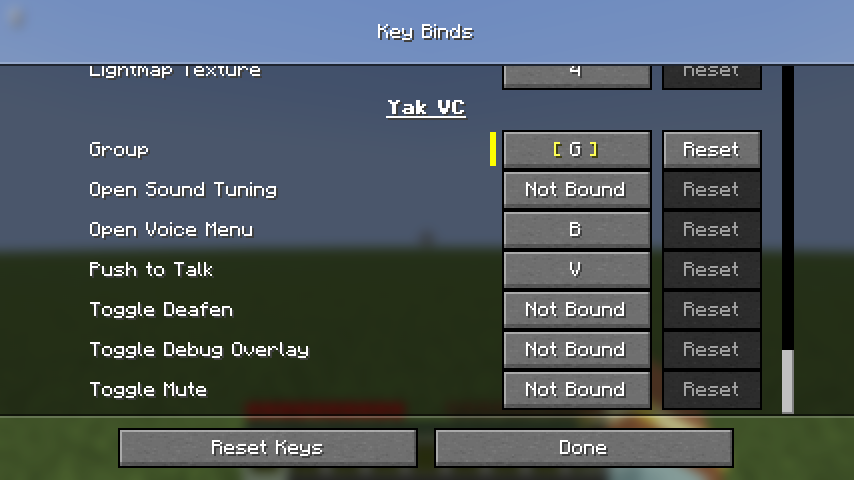
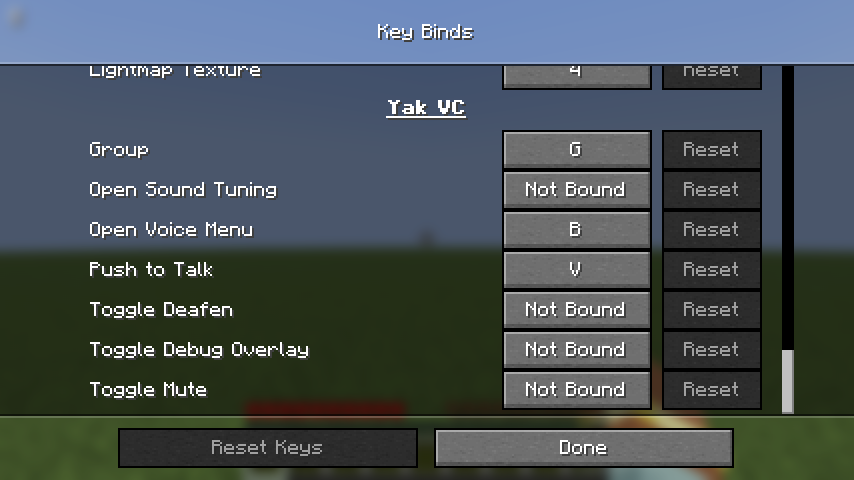
Mod: Group defaults to G

diff --git a/mod/src/main/java/io/github/desocketed/yakvc/input/VoiceKeys.java b/mod/src/main/java/io/github/desocketed/yakvc/input/VoiceKeys.java
@@ -44,7 +44,7 @@ public final class VoiceKeys {
 				KeyMappingHelper.registerKeyMapping(
 						new KeyMapping("key.yakvc.push_to_talk", InputConstants.KEY_V, category)),
 				KeyMappingHelper.registerKeyMapping(
-						new KeyMapping("key.yakvc.group", InputConstants.UNKNOWN.getValue(), category)),
+						new KeyMapping("key.yakvc.group", InputConstants.KEY_G, category)),
 				KeyMappingHelper.registerKeyMapping(
 						new KeyMapping("key.yakvc.mute", InputConstants.UNKNOWN.getValue(), category)),
 				KeyMappingHelper.registerKeyMapping(
@@ -110,7 +110,7 @@ public final class VoiceKeys {
 		this.deafened = deafened;
 	}
 
-	/** The Group key's name for chat and status lines, or a hint to bind it while it is unbound (the default). */
+	/** The Group key's name for chat and status lines, or a hint to bind it if the player unbound it. */
 	public Component groupKeyName() {
 		return group.isUnbound() ? Component.translatable("yakvc.group.key_unbound") : group.getTranslatedKeyMessage();
 	}

diff --git a/mod/src/gametest/java/io/github/desocketed/yakvc/gametest/YakVcClientGameTest.java b/mod/src/gametest/java/io/github/desocketed/yakvc/gametest/YakVcClientGameTest.java
@@ -575,11 +575,6 @@ public class YakVcClientGameTest implements FabricClientGameTest {
 			mc.level.getEntity(REMOTE_ENTITY_ID).tickCount = 0;
 		});
 		context.takeScreenshot(TestScreenshotOptions.of("group-invite").disableCounterPrefix());
-		// Group is unbound by default; bind it as a player would.
-		context.runOnClient(mc -> {
-			KeyMapping.get("key.yakvc.group").setKey(InputConstants.Type.KEYBOARD.getOrCreate(InputConstants.KEY_G));
-			KeyMapping.resetMapping();
-		});
 		context.getInput().pressKey(KeyMapping.get("key.yakvc.group"));
 		context.waitFor(mc -> inGroupWith(feeder, REMOTE));
 

diff --git a/docs/DESIGN.md b/docs/DESIGN.md
@@ -318,7 +318,7 @@ Voice is 48 kHz mono Opus in 20 ms frames, sent as unreliable QUIC datagrams on 
 
 **Group voice chat (#28)**
 
-Players in a group hear each other at any distance, and only each other: a member is out of proximity voice until it leaves. A group forms when one player invites another and that player accepts, each by looking at the other and pressing the Group key (unbound by default). A player can also start a public group alone from the groups screen (Create Public Group, `yakvc_create_group`), which others then join from the list. Groups have no name, no password and no leader: every member has the same rights, and the voice menu shows a group as the faces of its members. They need nothing on the server: they live in the peers' messages to each other. (Reworked from named, password-protected groups by the maintainer, 2026-10-09.)
+Players in a group hear each other at any distance, and only each other: a member is out of proximity voice until it leaves. A group forms when one player invites another and that player accepts, each by looking at the other and pressing the Group key (G). A player can also start a public group alone from the groups screen (Create Public Group, `yakvc_create_group`), which others then join from the list. Groups have no name, no password and no leader: every member has the same rights, and the voice menu shows a group as the faces of its members. They need nothing on the server: they live in the peers' messages to each other. (Reworked from named, password-protected groups by the maintainer, 2026-10-09.)
 
 - **Key.** A group is a random 32-byte key `K`, made by the client that starts it. Its id is `SHA-256("yakvc-group-id-v2" ‖ K)`. A member's proof is `SHA-256("yakvc-group-member-v2" ‖ K ‖ member UUID)`. Members hold the same `K`, so none of them has any power the others lack.
 - **Invite and accept.** Pressing Group while looking at a player (a narrow cone around the crosshair over the players in view) accepts that player's pending invite if there is one, and otherwise invites them (`yakvc_invite`): `Invite { key, state }` on the control stream, with our group's `K` and state. A client not in a group sends a new key that it doesn't join yet, so it stays in proximity voice; it joins once the invitee's announcement proves that key, and keeps offering the same key for 2 minutes. The invitee sees "Steve invited you to a group" in chat; accepting (`yakvc_accept_invite`) leaves its own group and takes the invite's `K` and state. Invites expire after 2 minutes. Both players must be in view of each other, which is the point: a group is made face to face.
@@ -446,8 +446,8 @@ Names below use Mojang's official mappings, which Fabric uses from 26.1 on (Mine
 | `VoiceSession` | Per-connection lifecycle on `ClientPlayConnectionEvents` JOIN/DISCONNECT; Voice stays off until the server-data packet arrives (5 s timeout), so the MOTD opt-out is checked first; with no mixin, the packet is detected by `ServerData.motd` being replaced with a new object. It also stays off while `Minecraft.computeChatAbilities().restrictions()` contains `ChatRestriction.DISABLED_BY_PROFILE` or `DISABLED_BY_LAUNCHER` (`respect_chat_restrictions`; these replaced the older `getChatStatus()` API). The identity is worked out by `GameStateFeeder` every tick: the connection's game profile during a session (it differs from the launcher account on offline-mode servers) and the launcher account otherwise, sent only when it changes, so leaving an offline-mode server restores the account (#67) |
 | `GameStateFeeder` | On `END_CLIENT_TICK`: the identity (see `VoiceSession`); listener pose from the camera; tracked players from `level.players()`, minus spectators; tab-list diff from `getOnlinePlayers()`; local spectator state as an input flag; players blocked in Social Interactions (`PlayerSocialManager.isBlocked(UUID)`, checked once a second) are muted and also left out of the world snapshot, so no voice flows either way (`mute_blocked_players`); per-player volume and mute changes; the Voice volume as `getFinalSoundSourceVolume(VOICE)`, i.e. Voice × Master; the game's sound device; another mod's voice sink from Fabric Loader's object share (`yakvc:voice_sink`), when its address changes; push to native; then drain events and answer joins. Each step runs on its own, so one failing call can't skip the rest; a value the engine rejects is not resent until it changes. An engine panic disables voice and destroys the engine |
 | `SessionJoiner` | Handles `JoinRequest` events on a virtual thread via authlib's `SessionService.joinServer` (see authentication step 5). It tracks the game's login window itself, from `ClientLoginConnectionEvents.INIT` until `ClientConfigurationConnectionEvents.INIT` or login `DISCONNECT` (a `VoiceSession` only exists after login), and refuses inside it; the engine's auth backoff retries from 10 s. A login that starts while a voice join is in flight waits for it, up to 5 s, except for a local server (singleplayer or LAN host, `Minecraft.isLocalServer()`), where the game never calls `joinServer` over its memory connection: `ClientLoginConnectionEvents.INIT` fires before the game sends its hello, so the game's own `joinServer` lands last. Any `AuthenticationException` (unreachable, invalid credentials, banned) means `ok = false`. The access token stays inside authlib and is never logged. The result goes back through `GameStateFeeder`, which calls `completeJoin` on the client thread |
-| `input` | Keybinds via `KeyMappingHelper`: push-to-talk (default `V`, unused by vanilla; 26.3 uses SDL scancodes, `InputConstants.KEY_V`); open voice menu defaults to `B` (unused by vanilla); Group, mute and deafen are unbound by default to avoid clashing with minimap and utility mods, and chat and the groups screen name the Group key or, while unbound, ask to bind it in Controls; the pause menu gets a microphone button next to "Back to Game" (`ScreenEvents.AFTER_INIT`, placed from that button's position) that opens the voice menu. Settings are reached from a "Voice Chat…" row added to vanilla's Music & Sounds options (Fabric `ScreenEvents.AFTER_INIT` appends it to the screen's `OptionsList`, no mixin), from the voice menu, or from Mod Menu's config button when Mod Menu is installed (an optional compile-only dependency; Mod Menu is on the dev and gametest runtime classpath only, and the gametest clicks through its real config button) |
-| `ui` | `VoiceMenuScreen`: voice status, one row per online player (face, connection state, talking icon, 0–200 % volume, mute), and mute mic, deafen, groups and settings buttons; the first time it opens, a setup card at the top offers who may invite you to a group and the activation mode, and dismissing it sets `setup_done` in settings.json (a modpack can ship that set); `GroupsScreen`: public groups and our own as boxes of member faces with the optional label, join, leave, public or private, and the label; `GroupChat` puts invites in chat and other members' changes in toasts; `VoiceKeys` adds Group (unbound by default: invite or accept the player looked at); verified players get a check-mark badge after their name (icon-font `U+E004`), also shown beside the talking indicator. Members of our own group get a group badge (icon-font `U+E006`, two people) after their name in the voice menu, after the speaker in the HUD's talking list and over their head, talking or not; nothing shows for anyone else, or in no group. `VoiceSettingsScreen` applies each change at once, like the game's own options (slider drags coalesced to one `yakvc_update_config` every 2 ticks, about 100 ms; a pending one applies when the screen closes), and saves settings.json after each change the engine accepts; a rejected change shows the toast and reopens the screen from the config in effect, and the setup card's choices apply the same way. It has an Account section with your own state (verified, unverified or not connected) and the "Only Verified Players" toggle (`verified_only`); activation (push to talk or voice), range, bitrate, the noise filter (`noise_suppression`), Mic Volume (`input_gain`, a 0–400 % slider though the engine takes up to 10), input and output devices from `yakvc_list_devices`, listed once per open on a worker thread (`GameStateFeeder.listDevices`) with the pickers disabled and showing "Loading…" until the list lands on the client thread (that is the one engine call made off the client thread: it touches no engine state, the FFI last error is per thread, and `GameStateFeeder.close` holds a lock against it so destroy stays the last call), Spatial Audio (`spatial_audio`: off, simple or full, mod-only; see the acoustics), and a privacy section with the IP note, Group Invites (`invites`), relay-only (applies after a restart, because the engine builds its endpoint once; until then its button reads "On/Off after restart"), `respect_chat_restrictions` and `mute_blocked_players`, then a Developer section (always shown for now, one method so it can be hidden) with the debug overlay toggle, Sound Tuning and Test Sound. `TalkingIndicator` draws a speaker above talking players' name tags through `LevelRenderEvents.COLLECT_SUBMITS` and vanilla's `submitNameTag` (no mixin). The HUD shows mic and deafen icons, and the connection icon only when not registered, with text only when something is wrong; the mic turns grey with "No microphone" when no `MicLevel` has arrived for a second (#63). Icons are a small bitmap font (`assets/yakvc/font/icons.json`). `DebugOverlay` (key "Toggle Debug Overlay", unbound by default, or the toggle in the settings' Developer section, not saved) draws an F3-style panel: rendezvous and ticket (time left in whole hours, then minutes in the last hour, #118), account, endpoint and our voice protocol version, devices, level, sending, effective bitrate, overruns and underruns, and per peer the path, its voice protocol version when it differs from ours (such a peer also shows "Different version" in the voice menu, with a tooltip and a one-time toast per server session saying who needs to update, naming the release when the update check found one), RTT, loss, late packets and jitter-buffer delay, from `yakvc_stats` polled 4 times a second while it is shown. `VoiceToasts` shows failures: unsupported platform, native load or ABI mismatch, engine start failure, engine panic, and rejected settings. `EngineErrorToasts` shows the engine's `Error` events (a device that can't open or stopped working, a failed sign-in) as toasts of their own, queued one after another rather than replacing each other (#116); each message shows at most once every 5 minutes (#63). Group notices have a toast slot of their own (5 s, a newer one replaces the older). The other toasts share one slot Group Invites offers everyone, friends and nobody; Friends Only (`friends_only`) limits voice to the players marked Friend in the voice menu rows, kept in players.json beside volume and mute and sent to the engine as `friends`. Voice Activation Threshold (`vad_threshold_db`), Reverb and Echo (`acoustics.reverb_level`, `acoustics.echo_level`, shown with Spatial Audio on Full) are sliders too, and the Account section has the Voice Server box (`server`, a code from `yakvc-server code`, applied on close, taking effect after a restart). The menu status and the account line follow the live state while open; players.json is rewritten only when a volume or mute changed. |
+| `input` | Keybinds via `KeyMappingHelper`: push-to-talk (default `V`, unused by vanilla; 26.3 uses SDL scancodes, `InputConstants.KEY_V`); open voice menu defaults to `B` and Group to `G` (both unused by vanilla); mute and deafen are unbound by default to avoid clashing with minimap and utility mods; chat and the groups screen name the Group key or, if a player unbound it, ask to bind it in Controls; the pause menu gets a microphone button next to "Back to Game" (`ScreenEvents.AFTER_INIT`, placed from that button's position) that opens the voice menu. Settings are reached from a "Voice Chat…" row added to vanilla's Music & Sounds options (Fabric `ScreenEvents.AFTER_INIT` appends it to the screen's `OptionsList`, no mixin), from the voice menu, or from Mod Menu's config button when Mod Menu is installed (an optional compile-only dependency; Mod Menu is on the dev and gametest runtime classpath only, and the gametest clicks through its real config button) |
+| `ui` | `VoiceMenuScreen`: voice status, one row per online player (face, connection state, talking icon, 0–200 % volume, mute), and mute mic, deafen, groups and settings buttons; the first time it opens, a setup card at the top offers who may invite you to a group and the activation mode, and dismissing it sets `setup_done` in settings.json (a modpack can ship that set); `GroupsScreen`: public groups and our own as boxes of member faces with the optional label, join, leave, public or private, and the label; `GroupChat` puts invites in chat and other members' changes in toasts; `VoiceKeys` adds Group (G: invite or accept the player looked at); verified players get a check-mark badge after their name (icon-font `U+E004`), also shown beside the talking indicator. Members of our own group get a group badge (icon-font `U+E006`, two people) after their name in the voice menu, after the speaker in the HUD's talking list and over their head, talking or not; nothing shows for anyone else, or in no group. `VoiceSettingsScreen` applies each change at once, like the game's own options (slider drags coalesced to one `yakvc_update_config` every 2 ticks, about 100 ms; a pending one applies when the screen closes), and saves settings.json after each change the engine accepts; a rejected change shows the toast and reopens the screen from the config in effect, and the setup card's choices apply the same way. It has an Account section with your own state (verified, unverified or not connected) and the "Only Verified Players" toggle (`verified_only`); activation (push to talk or voice), range, bitrate, the noise filter (`noise_suppression`), Mic Volume (`input_gain`, a 0–400 % slider though the engine takes up to 10), input and output devices from `yakvc_list_devices`, listed once per open on a worker thread (`GameStateFeeder.listDevices`) with the pickers disabled and showing "Loading…" until the list lands on the client thread (that is the one engine call made off the client thread: it touches no engine state, the FFI last error is per thread, and `GameStateFeeder.close` holds a lock against it so destroy stays the last call), Spatial Audio (`spatial_audio`: off, simple or full, mod-only; see the acoustics), and a privacy section with the IP note, Group Invites (`invites`), relay-only (applies after a restart, because the engine builds its endpoint once; until then its button reads "On/Off after restart"), `respect_chat_restrictions` and `mute_blocked_players`, then a Developer section (always shown for now, one method so it can be hidden) with the debug overlay toggle, Sound Tuning and Test Sound. `TalkingIndicator` draws a speaker above talking players' name tags through `LevelRenderEvents.COLLECT_SUBMITS` and vanilla's `submitNameTag` (no mixin). The HUD shows mic and deafen icons, and the connection icon only when not registered, with text only when something is wrong; the mic turns grey with "No microphone" when no `MicLevel` has arrived for a second (#63). Icons are a small bitmap font (`assets/yakvc/font/icons.json`). `DebugOverlay` (key "Toggle Debug Overlay", unbound by default, or the toggle in the settings' Developer section, not saved) draws an F3-style panel: rendezvous and ticket (time left in whole hours, then minutes in the last hour, #118), account, endpoint and our voice protocol version, devices, level, sending, effective bitrate, overruns and underruns, and per peer the path, its voice protocol version when it differs from ours (such a peer also shows "Different version" in the voice menu, with a tooltip and a one-time toast per server session saying who needs to update, naming the release when the update check found one), RTT, loss, late packets and jitter-buffer delay, from `yakvc_stats` polled 4 times a second while it is shown. `VoiceToasts` shows failures: unsupported platform, native load or ABI mismatch, engine start failure, engine panic, and rejected settings. `EngineErrorToasts` shows the engine's `Error` events (a device that can't open or stopped working, a failed sign-in) as toasts of their own, queued one after another rather than replacing each other (#116); each message shows at most once every 5 minutes (#63). Group notices have a toast slot of their own (5 s, a newer one replaces the older). The other toasts share one slot Group Invites offers everyone, friends and nobody; Friends Only (`friends_only`) limits voice to the players marked Friend in the voice menu rows, kept in players.json beside volume and mute and sent to the engine as `friends`. Voice Activation Threshold (`vad_threshold_db`), Reverb and Echo (`acoustics.reverb_level`, `acoustics.echo_level`, shown with Spatial Audio on Full) are sliders too, and the Account section has the Voice Server box (`server`, a code from `yakvc-server code`, applied on close, taking effect after a restart). The menu status and the account line follow the live state while open; players.json is rewritten only when a volume or mute changed. |
 | `config` | `Settings`, a record of every setting, kept in `config/yakvc/settings.json` with Gson and written whole: a partial file, such as a modpack's preset (`{"setup_done": true, "check_for_updates": false}`), takes the defaults for the keys it leaves out, and unknown keys are dropped on the next save. The keys are the engine's own snake-case names (`voice_range`, `audio.input_gain`, `acoustics.reverb_level`), so one vocabulary covers the guide, the file and the engine; the mod-only keys (`spatial_audio`, `setup_done`, `check_for_updates`, `respect_chat_restrictions`, `mute_blocked_players`, the mod's half of `acoustics`) live beside the engine's, and the dev keys (`dev_mode`, `dev`) and the self-hosting keys (`rendezvous`, `trusted_issuers`, in their current shape until #135) are hidden keys no screen shows, which xtask and the gametest write as a partial preset. The engine and the ABI are unchanged: `Settings.engineToml` writes the engine's keys as TOML text for `yakvc_create` and `yakvc_update_config`, with `voice_range` capped by the render distance (the saved range stays), and a unit test hands that text to the real engine so a wrong emitter fails CI. A change goes through `yakvc_update_config` and is saved only if the engine accepts it. The file is written with the defaults on first start; `client.toml` is no longer read and not migrated (pre-1.0), only pointed out in the log. Includes `respect_chat_restrictions` and `mute_blocked_players`, both default `true` and both can be turned off, and `verified_only` (default `false`), and `invites` (default `"everyone"`). The settings screen picks the microphone and speakers from dropdown lists and shows a live microphone level meter, fed by the `MicLevel` event the engine sends whenever the microphone delivers audio, with `vad_threshold_db` marked on it; the level is measured after `input_gain`, as voice activation is, so the meter shows what Mic Volume does. Per-player volume and mute are kept by UUID in `config/yakvc/players.json`. Both files are written atomically (a temporary file, then an atomic move), so a crash mid-save leaves the old contents (#68); entries are checked one by one on load, bad ones are dropped with a warning and volumes are clamped to 0–2 (the menu's range). A `dev` object (needs `dev_mode`) gives test audio instead of devices: `tone_hz` uses a tone source, `wav` a looping WAV file (`cargo xtask session --talk <name> --talk-file <wav>` sets it) and `null_output` a null sink, for headless runs. Separately, the engine lists built-in test inputs after the real microphones (`TEST_INPUTS`: clicks, noise bursts, a sweep, beeps and a tone, generated at a speech-like −18 dBFS peak, each suited to hearing an effect), opened by their `yakvc:test-` id as any microphone is and needing no `dev_mode`; the settings offer them under Test Sound in their Developer section, and the Microphone list leaves them out unless one is in use, and `--talk <name>` alone picks the beeps |
 
 Fabric API events are preferred over mixins, and there is one: Fabric API has no event for a model's pose, so `PlayerModelMixin` injects at the tail of `PlayerModel.setupAnim(AvatarRenderState)` to move a talking player's head with their voice (`speaking_heads`, on by default, the Speaking Heads toggle beside Spatial Audio). The render state carries the entity id, which the level resolves to the player's UUID. `HeadMotion`, pure and unit-tested, turns the engine's `Speech` events into angles added to the head's own: a nod through a damped spring (3.5 Hz, damping ratio 0.45) kicked on each syllable onset (the level 6 dB over its recent average, at most every 150 ms), harder when the pitch rises above the speaker's usual with it (a pitch accent); a slow sway in yaw and roll, two unrelated sines per axis, scaled by loudness; and a slight raise of the head as the pitch climbs, full at 6 semitones over the speaker's usual. Everything is scaled by an envelope of the level (attack 80 ms, release 200 ms) that falls to rest 150 ms after the last event. Only a standing pose moves.

diff --git a/docs/USER_GUIDE.md b/docs/USER_GUIDE.md
@@ -40,14 +40,14 @@ The keys are in Options → Controls → Key Binds, under **Yak VC**.
 | Key | Default | What it does |
 | --- | --- | --- |
 | Push to Talk | V | Hold to talk. |
-| Group | not bound | Look at a player and press it to invite them to a [group](#groups), or to accept their invite. |
+| Group | G | Look at a player and press it to invite them to a [group](#groups), or to accept their invite. |
 | Toggle Mute | not bound | Turns your microphone off and on. |
 | Toggle Deafen | not bound | Stops you hearing anyone. Your microphone still works unless you mute it too. |
 | Open Voice Menu | B | Opens the [voice menu](#the-voice-menu), and from there the settings. The pause menu has a button for it too. |
 | Toggle Debug Overlay | not bound | Shows or hides the [debug overlay](#the-debug-overlay). |
 | Open Sound Tuning | not bound | Opens [Sound Tuning](#sound-tuning) straight from the game, handy while someone talks. |
 
-Group, mute, deafen, the debug overlay and sound tuning are unbound so they don't clash with other mods. The settings are always reachable without a key, from **Voice Chat…** in the game's Music & Sounds options (see [Settings](#settings)).
+Mute, deafen, the debug overlay and sound tuning are unbound so they don't clash with other mods. The settings are always reachable without a key, from **Voice Chat…** in the game's Music & Sounds options (see [Settings](#settings)).
 
 ## The HUD
 
@@ -112,7 +112,7 @@ At the bottom: **Mute Mic**, **Deafen**, **Groups…**, **Settings…** and **Do
 
 Players in a group hear each other wherever they are on the server, as if standing next to each other, without direction, and only each other: while you are in a group, players near you who aren't in it don't hear you, and you don't hear them. Push to Talk (or *Voice* activation) works the same as outside a group.
 
-**Making a group.** Bind the **Group** key in Controls, look at a player and press it. They see in chat that you invited them, for example *Steve invited you to a group. Look at them and press G.* (with their own Group key, or a reminder to bind it) When they look at you and press their Group key within two minutes, you are both in the group. Anyone in a group can invite more players the same way, and accepting an invite leaves the group you were in. A group is made face to face, so the player has to be in view; who may invite you is the **Group Invites** setting.
+**Making a group.** Look at a player and press **Group** (G). They see in chat that you invited them, for example *Steve invited you to a group. Look at them and press G.* When they look at you and press their Group key within two minutes, you are both in the group. Anyone in a group can invite more players the same way, and accepting an invite leaves the group you were in. A group is made face to face, so the player has to be in view; who may invite you is the **Group Invites** setting.
 
 ![An invite in chat](guide/group-invite.png)
 
